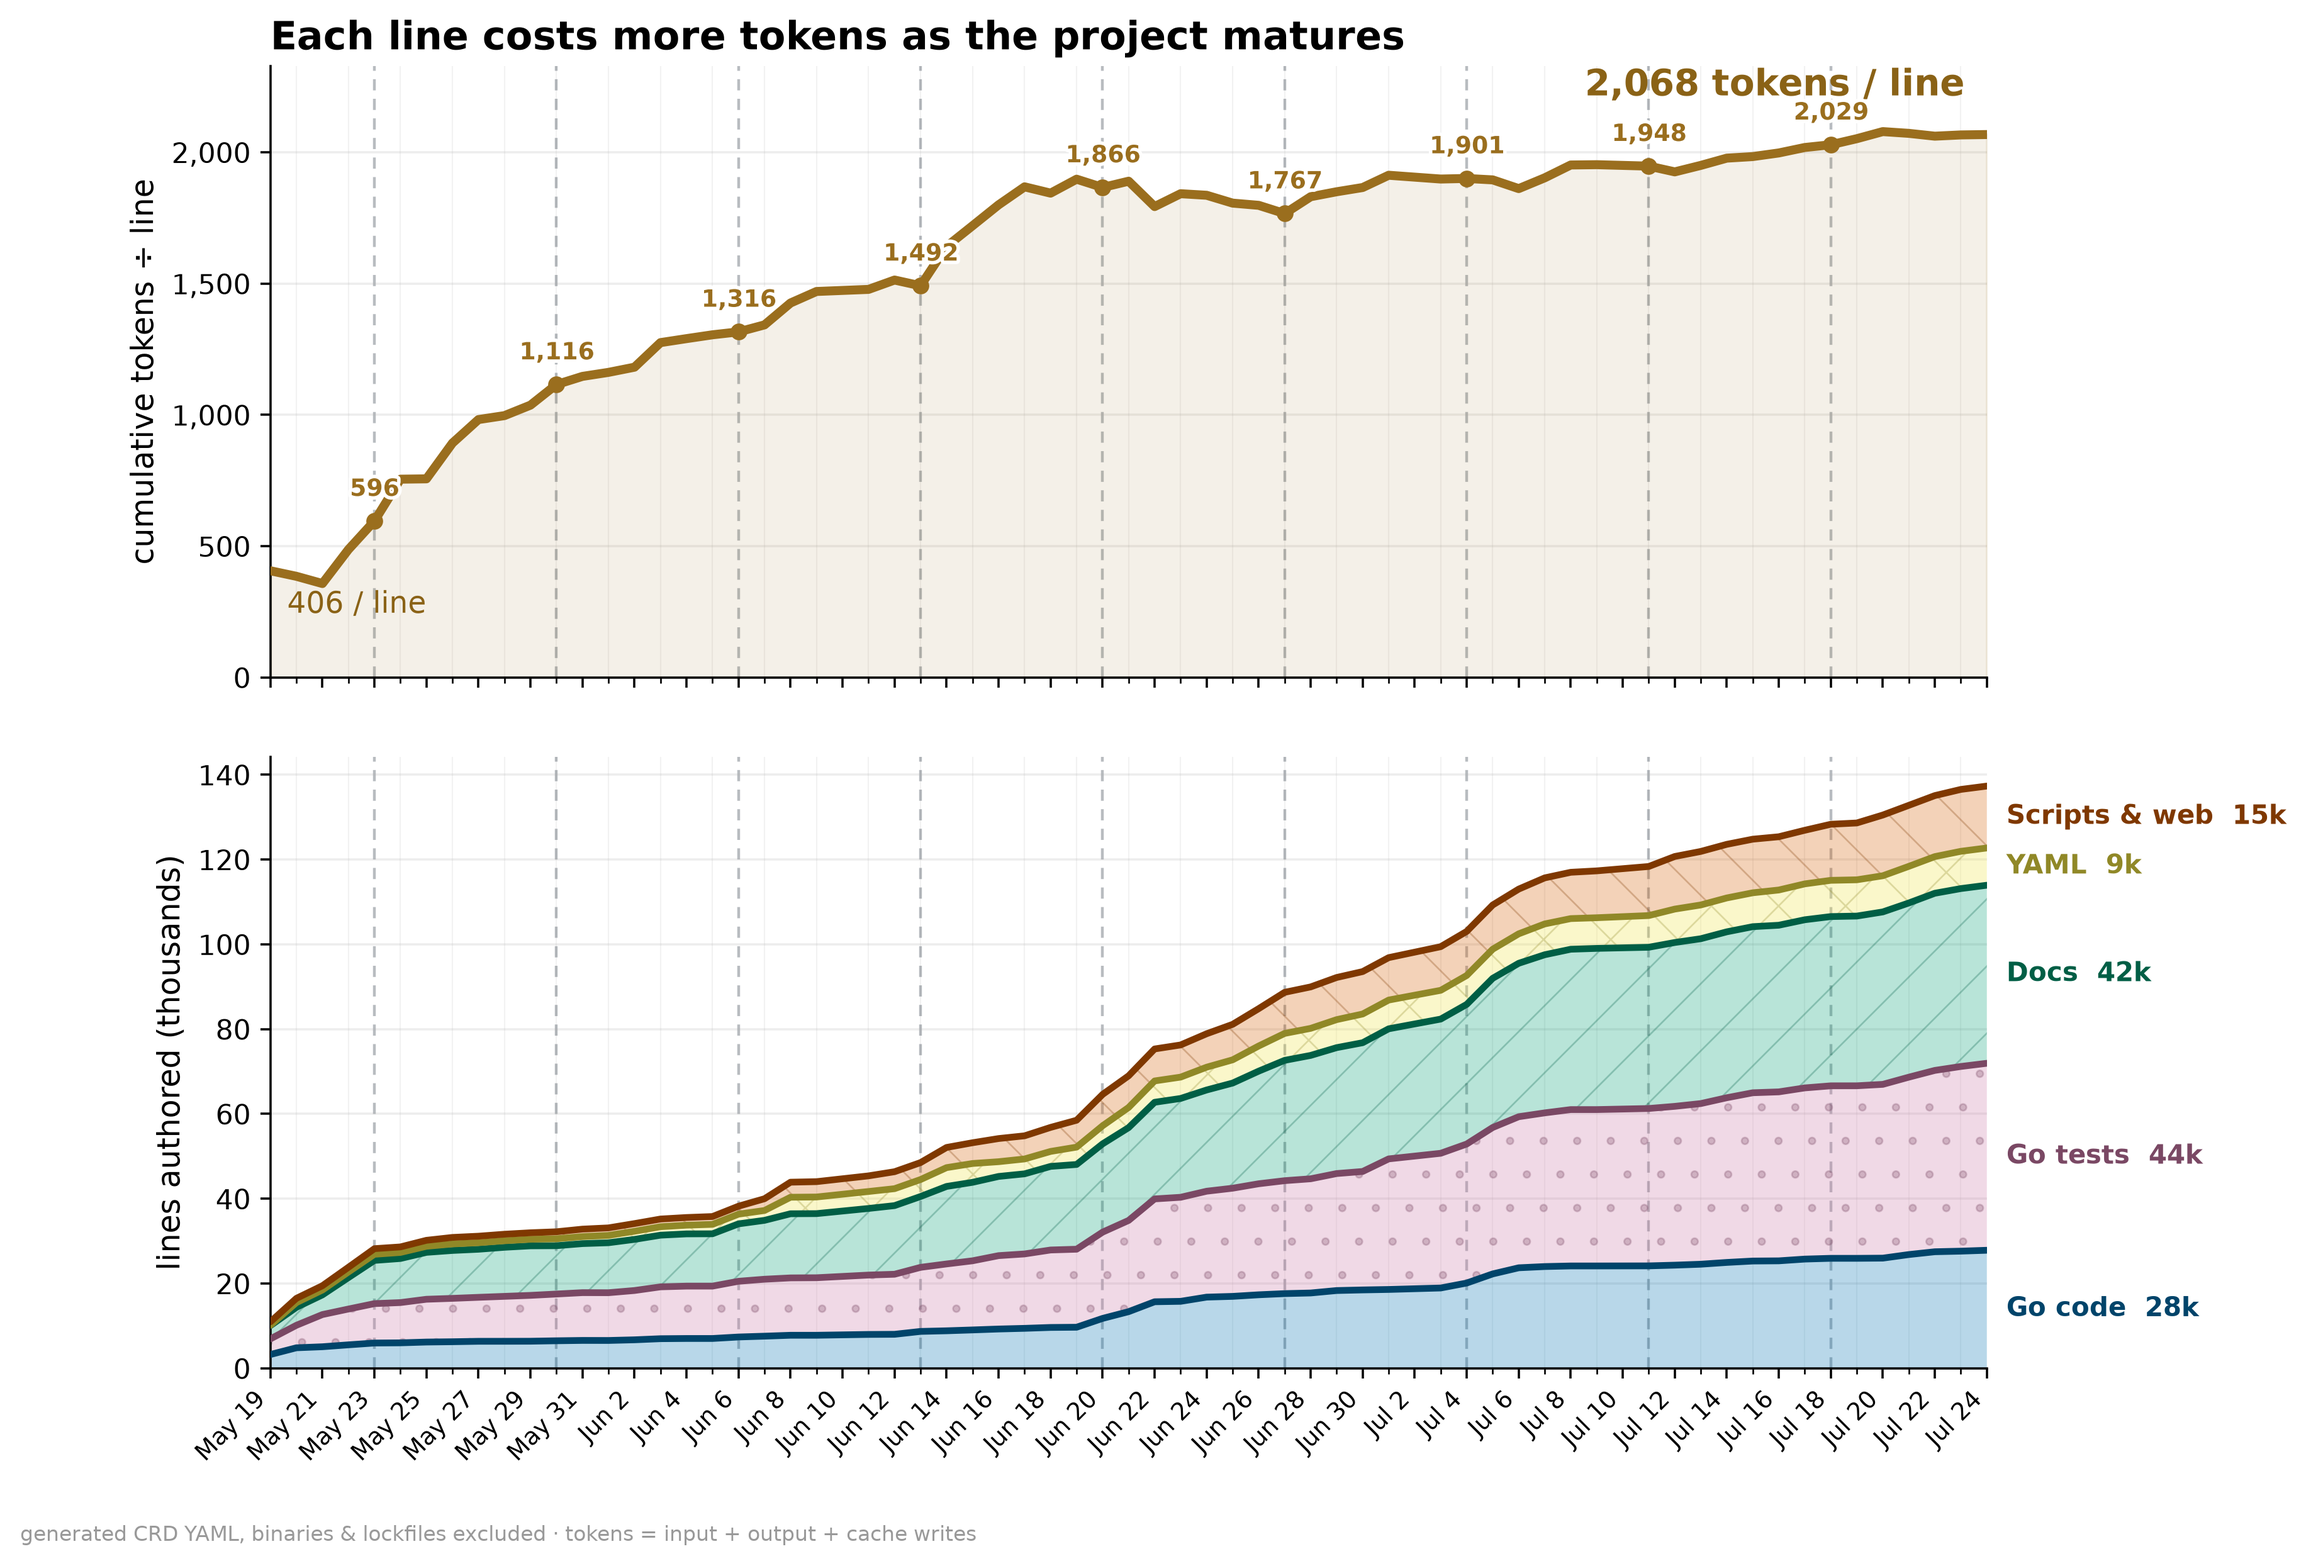
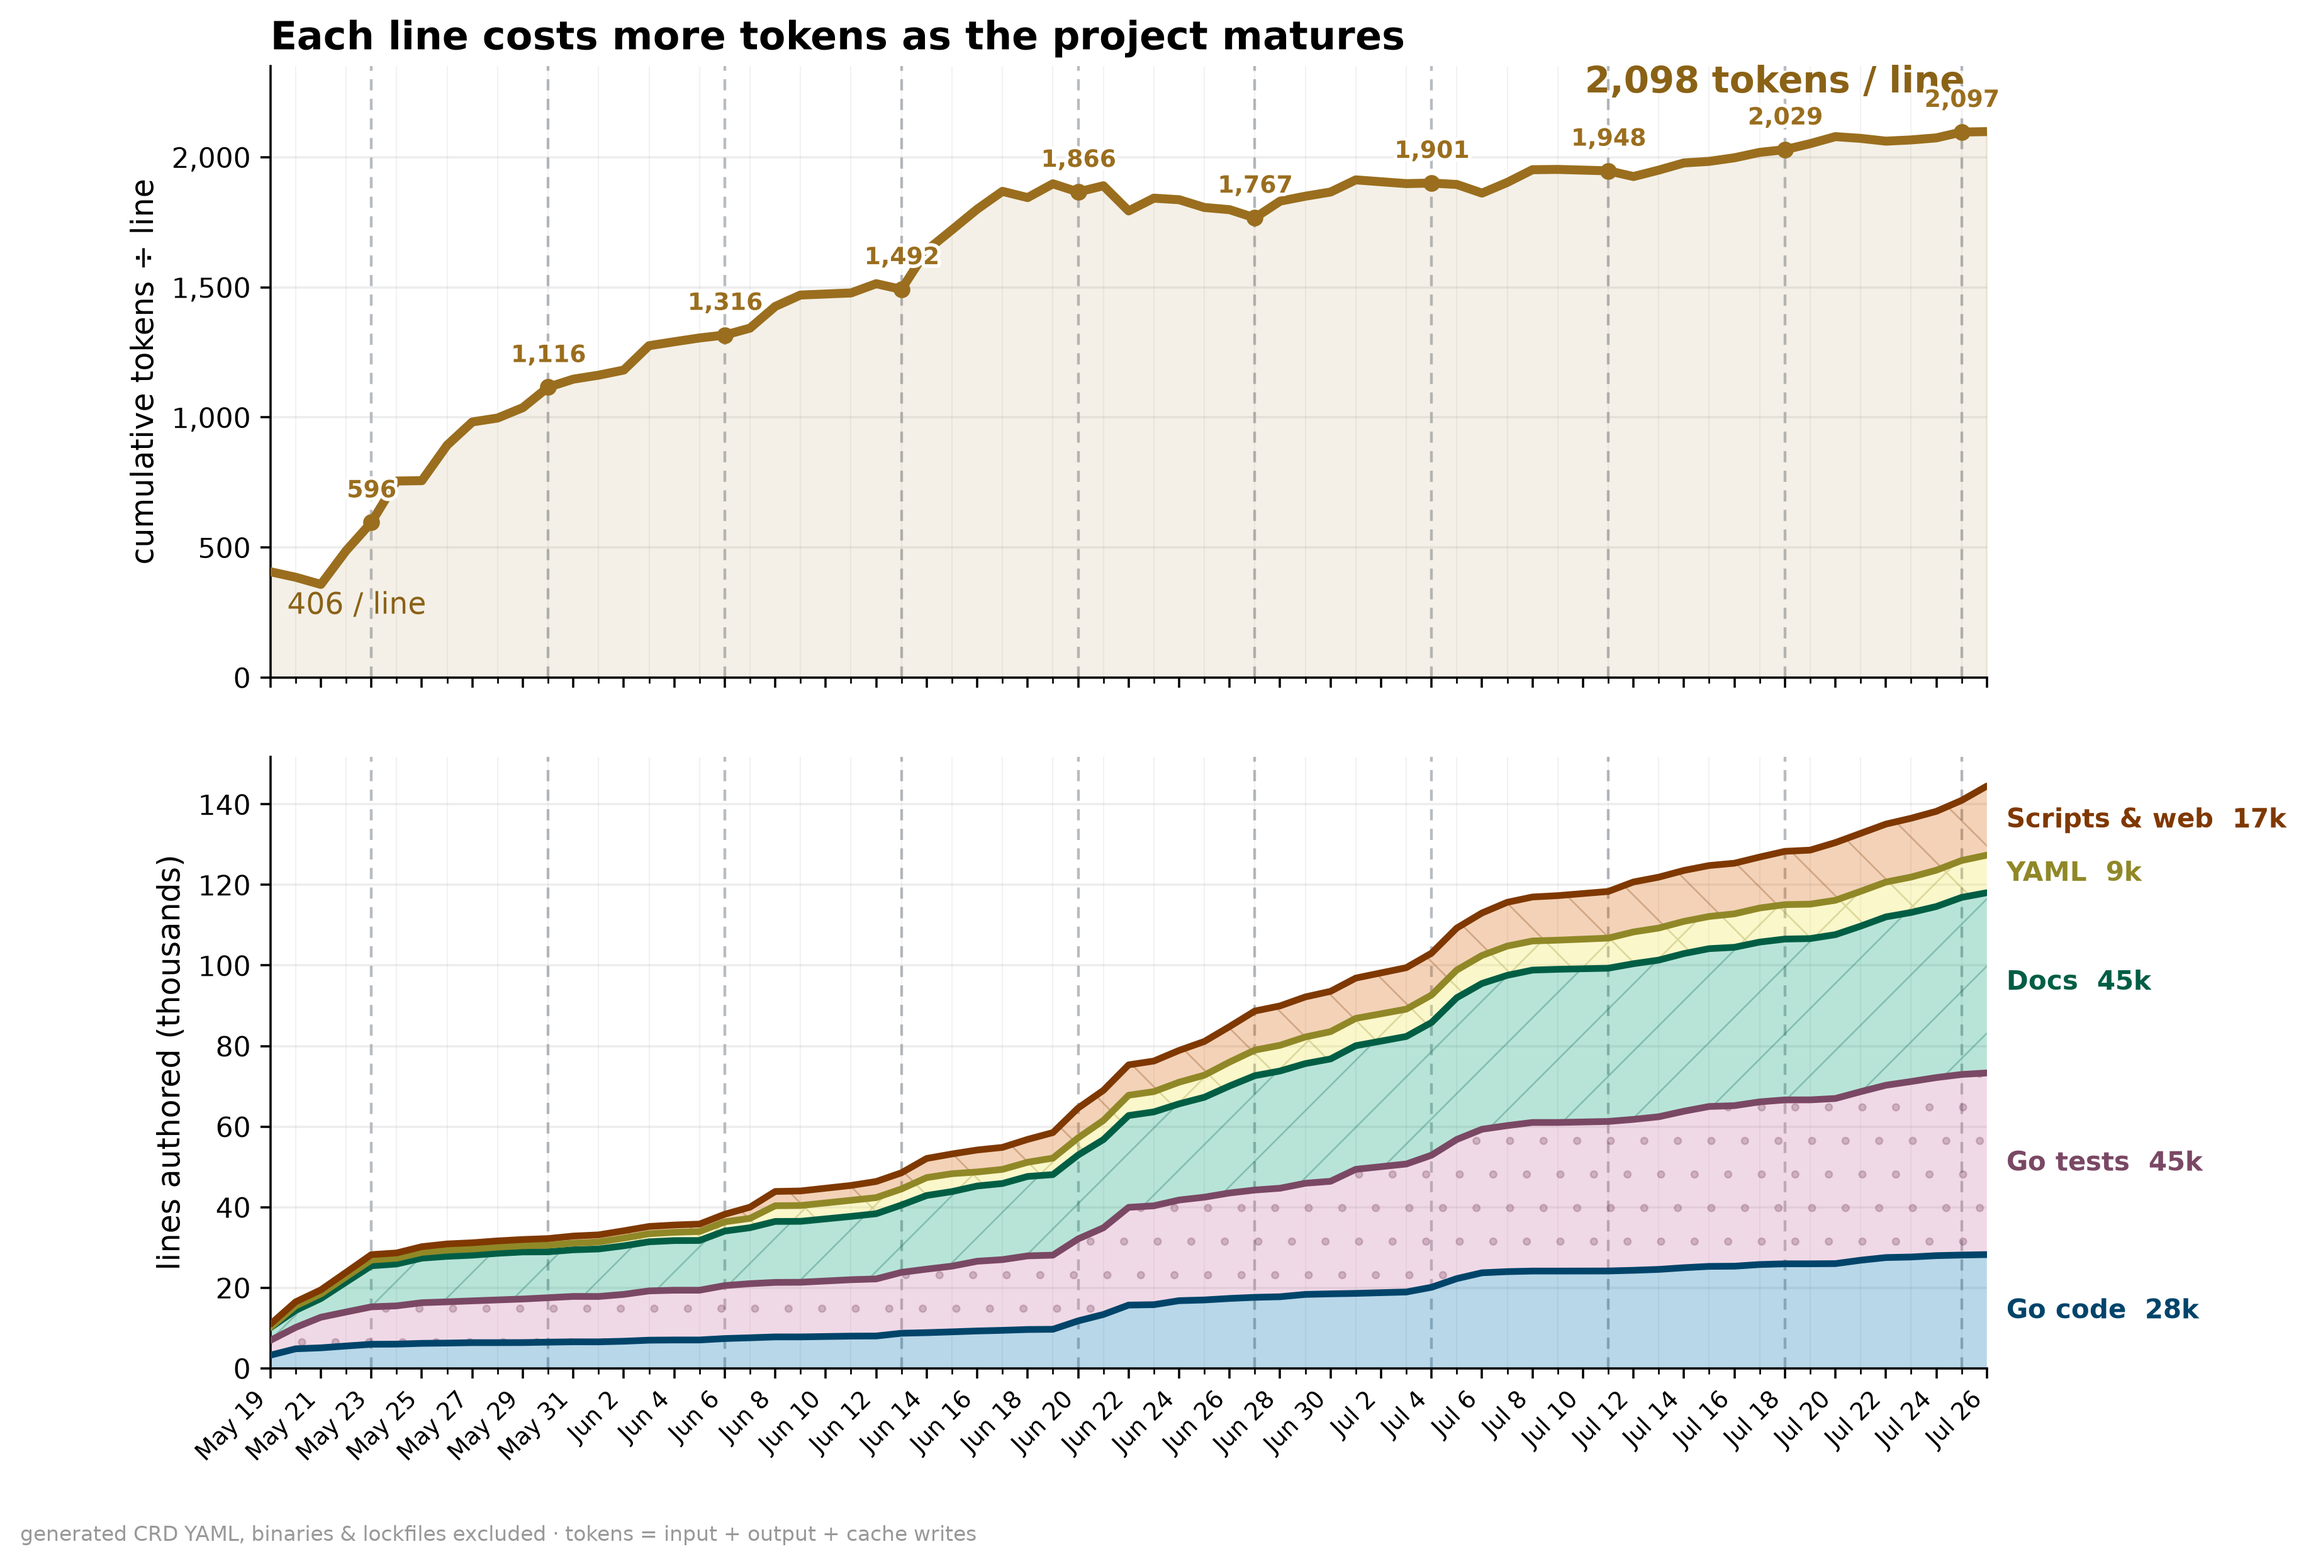
chore(metrics): refresh the usage snapshot to 2026-07-26 (mac-1)
Day-72 snapshot measured on mac-1: 303.3M headline tokens (300.8M
measured + 2.5M backfill), 11.2B cache reads at ~46x reuse, 1,286
commits, 1,429 tests, ~145k lines authored at ~2,100 tokens/line. Opus 5
enters the model mix at 5%. Charts re-rendered from the CSVs.

diff --git a/claude-usage/README.md b/claude-usage/README.md
@@ -85,37 +85,37 @@ python3 -m unittest discover -s claude-usage
 
 ## Results
 
-Latest snapshot **2026-07-24** (project day 70; first commit 2026-05-16). "Day 7"
+Latest snapshot **2026-07-26** (project day 72; first commit 2026-05-16). "Day 7"
 is the [original day-7 Bluesky post][post1]'s published figures; "Day 22" is the
-[day-22 follow-up][post2]; "Day 70" is the current snapshot the charts here back.
+[day-22 follow-up][post2]; "Day 72" is the current snapshot the charts here back.
 The snapshots are announced as a quote-post chain (each post quotes the previous
 one): [day 7][post1] → [day 22][post2] → [day 35][post3] → [day 48][post4] →
 [day 70][post5].
 
 > **Frozen snapshot.** The committed CSVs, `summary.json`, and charts are the
-> 2026-07-24 snapshot. Re-running `compute_metrics.py` advances the token/message
+> 2026-07-26 snapshot. Re-running `compute_metrics.py` advances the token/message
 > series as new sessions accrue (the merge rule only ever revises upward); leave
 > it un-run to keep these figures, or re-run and refresh the charts to roll
 > forward to a new dated snapshot.
 
-| Metric | Day 7 | Day 22 | Day 70 | Source |
+| Metric | Day 7 | Day 22 | Day 72 | Source |
 |---|--:|--:|--:|---|
-| Tokens (input + output + cache-creation) | ~10M | 56.2M | **284.0M** | transcripts + est. |
-| └ measured only | — | 53.7M | 281.5M | transcripts |
+| Tokens (input + output + cache-creation) | ~10M | 56.2M | **303.3M** | transcripts + est. |
+| └ measured only | — | 53.7M | 300.8M | transcripts |
 | └ estimated backfill (May 16–18) | — | +2.5M | +2.5M | per-commit estimate |
-| └ incl. cache reads | — | 2.02B | **10.5B** | transcripts + est. |
-| Cache reuse ratio (reads ÷ writes) | — | ~44× | **~45×** | transcripts |
-| Git commits | 232 | 617 | **1,221** | git |
-| Tests (`func Test*`) | 269 | 393 | **1,394** | git |
-| Lines of Go (code) | 15.5k | 20.9k | **71.9k** | git |
-| Lines of Go (comments) | 2.3k | 4.2k | **23.4k** | git |
-| Markdown (non-blank) | 14.3k | 14.0k | **42.1k** | git |
-| YAML (hand-written) | 1.5k | 2.3k | **8.8k** | git |
-| Scripts & web (shell/Python/Make/Docker/CSS/JS) | — | — | **14.6k** | git |
-| Model mix | mostly Sonnet 4.6 | Sonnet 43% / Opus 57% | **Opus 4.8 77% / Sonnet 9% / Fable 9% / Opus 4.7 6%** | transcripts |
+| └ incl. cache reads | — | 2.02B | **11.5B** | transcripts + est. |
+| Cache reuse ratio (reads ÷ writes) | — | ~44× | **~46×** | transcripts |
+| Git commits | 232 | 617 | **1,286** | git |
+| Tests (`func Test*`) | 269 | 393 | **1,429** | git |
+| Lines of Go (code) | 15.5k | 20.9k | **73.3k** | git |
+| Lines of Go (comments) | 2.3k | 4.2k | **24.4k** | git |
+| Markdown (non-blank) | 14.3k | 14.0k | **44.8k** | git |
+| YAML (hand-written) | 1.5k | 2.3k | **9.3k** | git |
+| Scripts & web (shell/Python/Make/Docker/CSS/JS) | — | — | **17.1k** | git |
+| Model mix | mostly Sonnet 4.6 | Sonnet 43% / Opus 57% | **Opus 4.8 73% / Fable 8% / Sonnet 8% / Opus 4.7 6% / Opus 5 5%** | transcripts |
 
 The headline tokens figure **includes the ~2.5M estimated backfill** for the
-archived first three days; the measured-only floor is 281.5M. Live totals (with
+archived first three days; the measured-only floor is 300.8M. Live totals (with
 the measured / estimated split) are always in
 [`data/summary.json`](data/summary.json).
 
@@ -136,15 +136,15 @@ The standalone versions follow below.
 ![Daily token usage by model](charts/tokens_by_model.png)
 The Pro→Max 5x upgrade (first dashed line, 2026-05-23) is visible as the hand-off
 from Sonnet 4.6 (orange) to Opus 4.7 (purple), then Opus 4.8 (blue), with Fable 5
-(green) appearing from June 9; the second dashed line (2026-07-05) marks the
-Max 5x→20x upgrade. Charts use the Okabe–Ito colourblind-safe palette, and each
-model also carries its own hatch pattern.
+(green) appearing from June 9 and Opus 5 (vermillion) from July 25; the second
+dashed line (2026-07-05) marks the Max 5x→20x upgrade. Charts use the Okabe–Ito
+colourblind-safe palette, and each model also carries its own hatch pattern.
 
 ### Tokens spent vs. lines authored (the magnitude)
 ![Cumulative tokens far above cumulative lines authored, log scale](charts/tokens_vs_lines.png)
-Log y so both ends are visible at once: ~284M cumulative tokens ride well above
-~137k lines authored (a linear axis crushes the lines to an invisible sliver). The
-gold-shaded gap between the two curves is the ~2,050 tokens/line — on a log axis a
+Log y so both ends are visible at once: ~303M cumulative tokens ride well above
+~145k lines authored (a linear axis crushes the lines to an invisible sliver). The
+gold-shaded gap between the two curves is the ~2,100 tokens/line — on a log axis a
 ratio is a vertical gap. "Lines authored" is all hand-written output — Go (code +
 tests), Markdown, hand-written YAML, and scripts & web; generated CRD YAML,
 binaries, and lockfiles excluded. The undistorted breakdown of those lines is in
@@ -153,7 +153,7 @@ the next chart.
 ### Tokens per line authored (the trend & the breakdown)
 ![Cost per line over time above a stacked breakdown of the lines](charts/tokens_per_line.png)
 **Top:** cumulative tokens ÷ lines authored, by day (measured days only). It climbs
-from ~410 tokens/line in week one to ~2,050 two months in — each line costs ~5× more
+from ~410 tokens/line in week one to ~2,100 two months in — each line costs ~5× more
 once the easy scaffolding is done and the work shifts to logic, tests, review, and
 debugging. **Bottom:** the denominator itself, decomposed — Go code, Go tests,
 Markdown docs, hand-written YAML, scripts & web. Its total height at any date *is*
@@ -167,7 +167,7 @@ order of magnitude above everything else, every day.
 
 ### Cumulative cache traffic
 ![Cumulative cache traffic](charts/cumulative_cache.png)
-Cumulative cache reads (10.2B) vs writes (227M). Write once, replay ~45×.
+Cumulative cache reads (11.2B) vs writes (243M). Write once, replay ~46×.
 
 ## Data files
 
@@ -220,14 +220,14 @@ snapshot and which machines are on record.
   (2026-05-19), so their token usage is gone from the logs. Those days are
   **backfilled** from the Pro-era per-commit rate and flagged `estimated=1`
   (see "Backfilled (estimated) days" above). The ~2.5M backfill is a modeled
-  figure, not a measurement — the defensible measured-only floor is 281.5M. The
+  figure, not a measurement — the defensible measured-only floor is 300.8M. The
   git series is fully measured from 2026-05-16.
 - **Tokens-per-line is a proxy.** The denominator is all hand-authored output —
   Go (code + tests), Markdown, hand-written YAML, and scripts & web (shell,
   Python, Make/Docker, CSS/JS) — but tokens also go into review, debugging, and
   exploration that never lands as a line, so the ratio tracks overall
   effort-per-output, not the literal cost of one line. Generated YAML
-  (CRDs/controller-gen, ~44k lines), binaries, lockfiles, and license boilerplate
+  (CRDs/controller-gen, ~130k lines), binaries, lockfiles, and license boilerplate
   are excluded so non-authored content doesn't dilute it. Estimated
   (pre-transcript) days are excluded so it's measured-only.
 - **Date basis differs by source.** Token dates are UTC (from message
